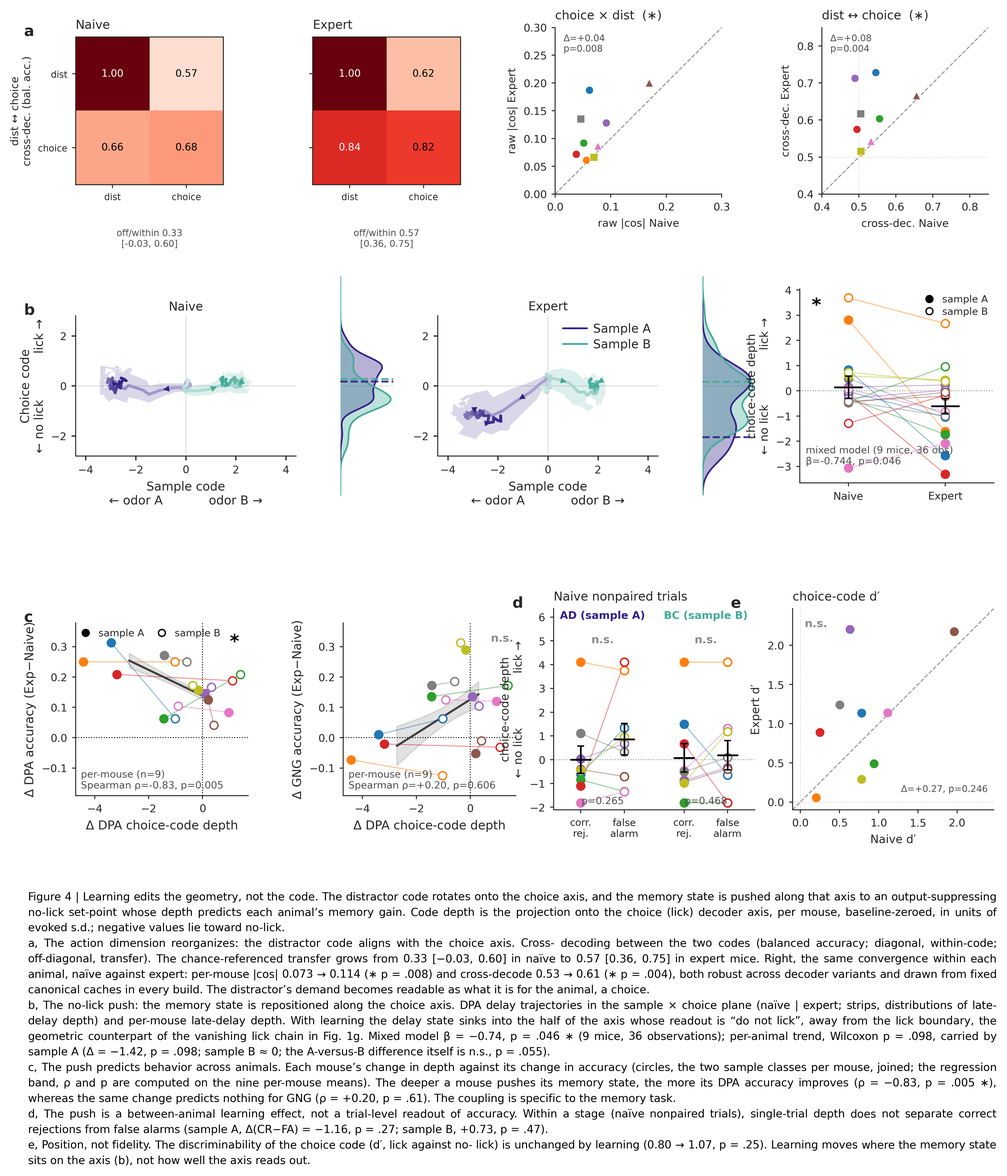
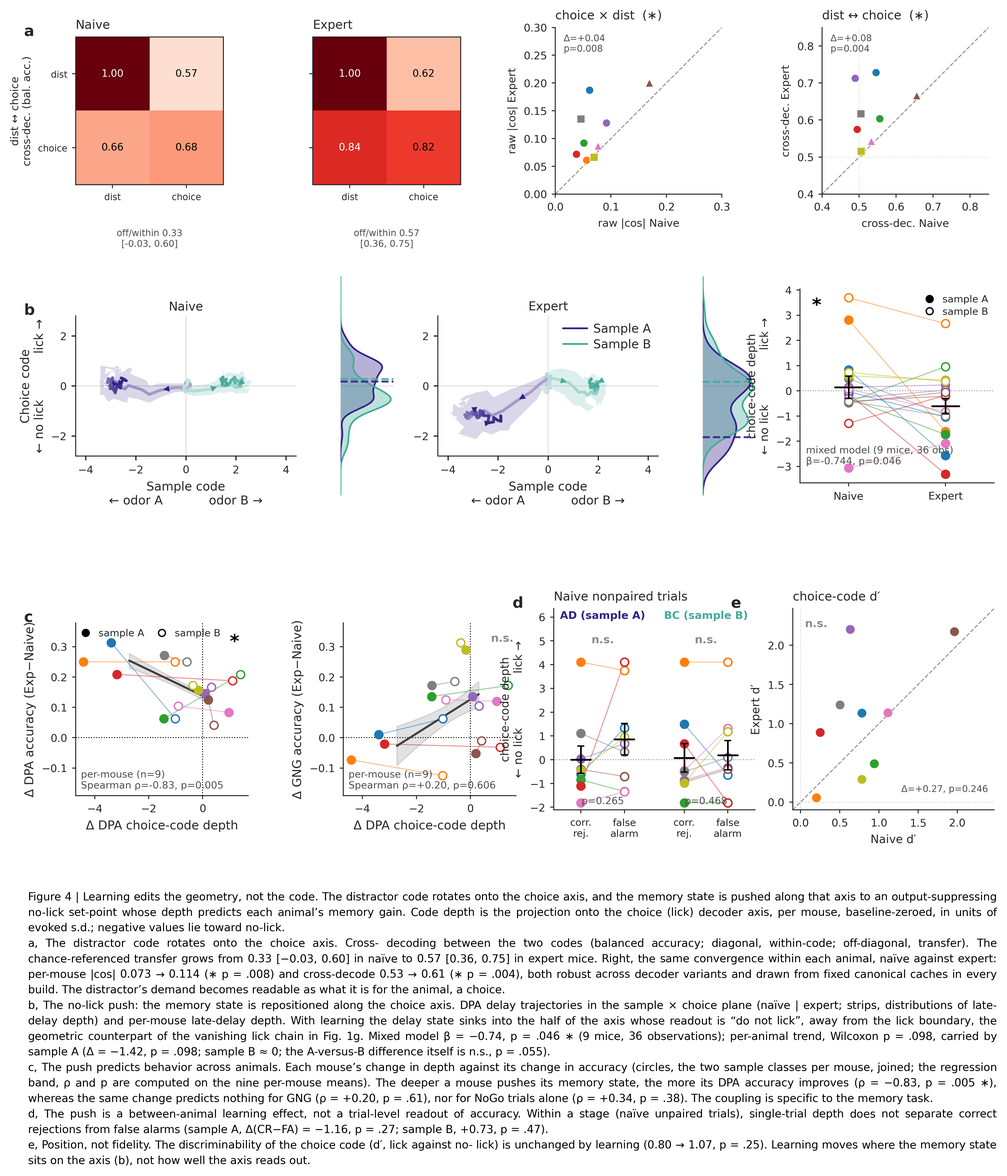
Draft v10.4: §4/§5 story rewrite (7 threads), NoGo-only coupling, choice-axis vocabulary
- §4 and §5 rewritten for the Nature Neuroscience register; statistics verbatim. New
  placeholder subsection for the circuit model (Fig. 5). Chronic silencing 'impaired
  learning of the dual task, deficit on its memory component'. dPCA-estimator caveat moved
  from §4 to Methods.
- NEW overlaps/exp_push_nogo_coupling.py: push ↔ NoGo-only / Go-only accuracy change with
  the Fig. 4c estimator — NoGo-only ρ = +0.34 p = .38, Go-only ρ = +0.20 p = .61 (DPA
  reproduces ρ = −0.83 p = .005). Reported in §4, the Fig. 4c legend and Methods; to-reconcile
  item closed.
- Vocabulary: the lick axis is the 'choice axis' throughout (text, Discussion, Fig 3e/4a/6g–i
  legends + CAP_PARAS; Figs 3, 4, 6 re-rendered); 'nonpaired' → 'unpaired'.

Claude-Session: https://claude.ai/code/session_01U5815xHXRaRQ7YCxMTgCsM

Changed region(s): [[0.0311, 0.7811, 0.9938, 0.8436], [0.1242, 0.9061, 0.9317, 0.9685]]

diff --git a/overlaps/fig_overlaps_main_native.py b/overlaps/fig_overlaps_main_native.py
@@ -344,7 +344,7 @@ if __name__ == '__main__':
         'set-point whose depth predicts each animal’s memory gain. Code depth is the projection onto '
         'the choice (lick) decoder axis, per mouse, baseline-zeroed, in units of evoked s.d.; '
         'negative values lie toward no-lick.',
-        'a, The action dimension reorganizes: the distractor code aligns with the choice axis. Cross- '
+        'a, The distractor code rotates onto the choice axis. Cross- '
         'decoding between the two codes (balanced accuracy; diagonal, within-code; off-diagonal, '
         'transfer). The chance-referenced transfer grows from 0.33 [−0.03, 0.60] in naïve to 0.57 '
         '[0.36, 0.75] in expert mice. Right, the same convergence within each animal, naïve against '
@@ -362,9 +362,9 @@ if __name__ == '__main__':
         'change in accuracy (circles, the two sample classes per mouse, joined; the regression band, '
         'ρ and p are computed on the nine per-mouse means). The deeper a mouse pushes its memory '
         'state, the more its DPA accuracy improves (ρ = −0.83, p = .005 ∗), whereas the same change '
-        'predicts nothing for GNG (ρ = +0.20, p = .61). The coupling is specific to the memory task.',
+        'predicts nothing for GNG (ρ = +0.20, p = .61), nor for NoGo trials alone (ρ = +0.34, p = .38). The coupling is specific to the memory task.',
         'd, The push is a between-animal learning effect, not a trial-level readout of accuracy. '
-        'Within a stage (naïve nonpaired trials), single-trial depth does not separate correct '
+        'Within a stage (naïve unpaired trials), single-trial depth does not separate correct '
         'rejections from false alarms (sample A, Δ(CR−FA) = −1.16, p = .27; sample B, +0.73, p = '
         '.47).',
         'e, Position, not fidelity. The discriminability of the choice code (d′, lick against no- '

diff --git a/overlaps/exp_push_nogo_coupling.py b/overlaps/exp_push_nogo_coupling.py
@@ -1,0 +1,22 @@
+"""exp_push_nogo_coupling.py — does the no-lick push (per-mouse Δdepth, Expert−Naive, Fig 4b/c) relate
+to the change in NoGo-trial accuracy specifically? (Leon, 2026-09-04: NoGo trials are the only GNG arm
+that improves with learning, Fig 1c.) Same estimator as Fig 4c — main_panels._panelC_coupling, the
+between-mouse n=9 Spearman on per-mouse means (A/B aggregated within mouse) — with the GNG performance
+column (odr_perf) restricted to Go-only or NoGo-only trials. Run from overlaps/ (canonical axis/norm)."""
+import sys, os
+sys.path.insert(0, '/home/leon/dual/'); os.chdir('/home/leon/dual/overlaps'); sys.path.insert(0, '/home/leon/dual/overlaps')
+import numpy as np
+from scipy.stats import pearsonr
+import main_panels as MP
+y = MP.y
+tasks = sorted(y.tasks.unique()); print('tasks:', tasks)
+go = [t for t in tasks if 'go' in t.lower() and 'nogo' not in t.lower()][0]
+nogo = [t for t in tasks if 'nogo' in t.lower()][0]
+rows = [('DPA', 'performance', y.tasks == 'DPA'), ('GNG (Go+NoGo)', 'odr_perf', y.tasks != 'DPA'),
+        ('Go only', 'odr_perf', y.tasks == go), ('NoGo only', 'odr_perf', y.tasks == nogo)]
+for name, col, mask in rows:
+    d = MP._perf_delta_by_sample(col, mask)
+    rho, p, n, mx, my = MP._panelC_coupling(d)
+    r, pr = pearsonr(mx, my)
+    print(f'{name:14s} n={n}  Spearman rho={rho:+.2f} p={p:.3f}   Pearson r={r:+.2f} p={pr:.3f}   '
+          f'mean Δacc={my.mean():+.3f}  per-mouse Δacc={np.round(my,2).tolist()}')

diff --git a/overlaps/fig_behavior_opto_main.py b/overlaps/fig_behavior_opto_main.py
@@ -870,7 +870,7 @@ if not POSTER:
         'DPA (d) and GNG (e) accuracy are unchanged between ON and OFF, yet the same manipulation '
         'displaces each animal’s position along the choice axis (f; per-mouse depth, samples pooled). '
         'The directions differ across mice, so the group mean is flat.',
-        'g–i, The displacement, read on the learned action axis, predicts behavior. Δdepth (ON−OFF) '
+        'g–i, The displacement, read on the learned choice axis, predicts behavior. Δdepth (ON−OFF) '
         'against the accompanying change in accuracy (20 points = 5 mice × naïve/expert × sample A/B; '
         'depth on the trainLD_TEST axis at late delay). The joint trade-off (g) is a raw-level trend '
         '(r = +0.53, p = .016); because the points cluster within five mice, a mouse-clustered model '

diff --git a/pca/fig_manifold_main.py b/pca/fig_manifold_main.py
@@ -666,7 +666,7 @@ CAP_PARAS = [
     'Learning pulls the distractor code into the plane, which Fig. 4a quantifies.',
     'e, The axes are nearly orthogonal. |cos| between the decoder axes, corrected for attenuation '
     'using the split-half reliabilities printed above each matrix (0 = orthogonal). The memory '
-    'axis is orthogonal to both action codes (≈0.07–0.09 at both stages), the static layer of '
+    'axis is orthogonal to both the choice and the distractor code (≈0.07–0.09 at both stages), the static layer of '
     'protection, while the overlap between choice and distractor is partial and grows (0.32 → '
     '0.47). Right, the raw within-mouse |cos|, naïve against expert; the increase for choice × '
     'distractor is the starred per-animal test of Fig. 4a. No tests are drawn here.',

diff --git a/docs/paper/results_draft.md b/docs/paper/results_draft.md
@@ -1,4 +1,14 @@
-# Compositional learning by geometric editing — main paper (draft v10.3)
+# Compositional learning by geometric editing — main paper (draft v10.4)
+
+> **v10.4 (2026-09-04, later): §4 + §5 STORY REWRITE, model section, vocabulary** — 7 activated
+> threads. §4 and §5 rewritten in the NatNeuro register (stats verbatim); NEW placeholder subsection
+> "A circuit model of the gated no-lick repositioning" (Fig. 5 in preparation); "impaired the learning
+> of DPA" → "impaired learning of the dual task, and the deficit fell on its memory component"; the
+> dPCA-estimator caveat moved from §4 to Methods (disclosure kept); VOCABULARY: the lick axis is the
+> "choice axis" everywhere — "action axis/dimension/codes" retired in the intro, §4, §5, Discussion and
+> the Fig 3e / 4a / 6g–i legends (+ CAP_PARAS; Figs 3, 4, 6 re-rendered); dPCA's own "action axis" in
+> the ED 9 sentence is now labelled as that decomposition's axis; "nonpaired" → "unpaired". NoGo-only
+> coupling: see the §4 sentence + `overlaps/exp_push_nogo_coupling.py`.
 
 > **v10.3 (2026-09-04, later): §3 STORY REWRITE** — 4 activated threads. §3 rewritten paragraph by
 > paragraph in the NatNeuro register (questions → traces → sufficiency/necessity → stability), stats
@@ -212,7 +222,7 @@ the action are carried on nearly orthogonal axes of a low-dimensional subspace t
 present, with the same axes, when dual task training begins. Learning the composition leaves
 this scaffold in place and refines the alignment of its axes, without adding dimensions that
 we could detect. What learning does change is the position of the working-memory state, which
-moves along a pre-existing action axis into the half that suppresses licking. This shift
+moves along the pre-existing choice axis into the half that suppresses licking. This shift
 tracks the disappearance of the interfering delay licks, predicts memory
 performance animal by animal, and is itself moved by top-down input from the anterior
 cingulate cortex (ACC), a projection that is required while the composition is being learned.
@@ -346,9 +356,9 @@ position on that axis, on its no-lick side, and that position does not differ de
 what the animal will go on to do at the test. The trained delay carries a standing no-lick
 set-point, not a premature decision. A demixed-PCA view of the same geometry is given in
 Extended Data Fig. 9: the time courses along single axes sharpened with learning without
-reorganizing, the choice and action axes became more aligned (|cos| 0.147 → 0.222, p < 0.001)
-while the sample and test axes separated (0.098 → 0.033, p = 0.008), and the action axis
-ordered the three trial types by the response they required. Three qualifications, detailed in
+reorganizing, the choice and action axes of that decomposition became more aligned (|cos|
+0.147 → 0.222, p < 0.001) while the sample and test axes separated (0.098 → 0.033, p = 0.008),
+and its action axis ordered the three trial types by the response they required. Three qualifications, detailed in
 Methods and Extended Data Fig. 3, belong here. The one-dimensionality of the DPA delay state is
 partly a matter of definition, since only one binary variable is being held; variance-weighted
 estimates of dimensionality and the full 12-condition spectra are reported in Extended Data
@@ -421,85 +431,97 @@ prefrontal cortex [Bernardi 2020].
 ## Learning repositions the memory state along the choice axis
 
 With one fixed, shared subspace established, we asked what learning changes inside it. Two
-things changed, and they turned out to be two faces of one reorganization of the action
-dimension. First, the distractor code aligned with the choice axis (Fig. 4a). Cross-decoding
-between the two codes rose from a chance-referenced transfer of 0.33 [−0.03, 0.60] in naïve
-animals to 0.57 [0.36, 0.75] in expert animals, and within animals both the raw cosine between
-the axes (0.073 → 0.114, p = .008) and the cross-decode (0.53 → 0.61, p = .004) increased,
-robustly across decoder variants. The distractor's demand had become readable as what it is for
-the animal: a choice.
+things changed, and they turned out to be two faces of a single reorganization along the
+choice axis. The first concerned the distractor. In naïve mice the distractor code and the
+choice code were only partly aligned; with learning the distractor code rotated onto the choice
+axis (Fig. 4a). A decoder trained on one code read the other with a chance-referenced transfer
+of 0.33 [−0.03, 0.60] in naïve animals and 0.57 [0.36, 0.75] in expert animals, and within
+animals both the raw cosine between the two axes (0.073 → 0.114, p = .008) and the
+cross-decoding (0.53 → 0.61, p = .004) increased, robustly across decoder variants. The
+distractor's demand had become readable as what it is for the animal: a choice.
 
-Second, learning moved the working-memory state along that same axis. The expert DPA delay
-state sat further into the no-lick half of the choice axis than the naïve state (Fig. 4b; mixed
-model over 9 mice and 36 observations, β = −0.744, p = 0.046; per-animal Wilcoxon p = 0.098).
-This is a set-point shift away from the lick boundary, and it suppresses precisely the
-delay-lick to false-alarm chain that learning removes behaviorally (Fig. 1g). The shift
-was numerically larger for sample A than for sample B (ΔA ≈ −1.42, p = 0.098; ΔB ≈ −0.07,
-p = 0.91). The direct paired comparison across the same nine mice, however, was not significant
-in any of six axis × normalization builds (p = 0.055–0.203), and the difference is not a
-decoder artifact: the sample and choice axes are orthogonal (per-mouse |cos| = 0.04), and
-leakage between them would displace A and B in opposite directions, which only 3/9 mice showed.
-We therefore report the repositioning itself and make no claim about sample specificity.
+The second concerned the memory. Learning moved the working-memory state along that same axis,
+toward the no-lick side. In expert mice the delay state of DPA trials sat further into the
+no-lick half of the choice axis than in naïve mice (Fig. 4b; mixed model over 9 mice and 36
+observations, β = −0.744, p = 0.046; per-animal Wilcoxon p = 0.098). This is the set-point
+anticipated in Fig. 2: the delay state comes to rest away from the lick boundary, and the
+delay-lick to false-alarm chain that learning removes behaviorally (Fig. 1g) is precisely the
+chain such a position suppresses. The shift was numerically larger for sample A than for
+sample B (ΔA ≈ −1.42, p = 0.098; ΔB ≈ −0.07, p = 0.91), but the direct paired comparison across
+the same nine mice was not significant in any of six axis × normalization builds
+(p = 0.055–0.203). The difference is not a decoder artifact, since the sample and choice axes
+are orthogonal (per-mouse |cos| = 0.04) and leakage between them would displace A and B in
+opposite directions, which only 3/9 mice showed. We therefore report the repositioning itself
+and make no claim about sample specificity.
 
 The size of the repositioning predicted behavior across animals. The further a mouse had moved
 its delay state toward no-lick, the more its DPA accuracy had improved (Fig. 4c, left;
-per-mouse Spearman ρ = −0.83, p = 0.005, n = 9), with no relationship to GNG accuracy
-(Fig. 4c, right; ρ = +0.20, p = 0.61). The association is specific to memory performance and
-comes at no detectable cost to the distractor task. It held under every normalization we tried
-(ρ = −0.83 to −0.90, all p ≤ 0.005) and every resampling check (leave-one-out jackknife;
-bootstrap CI excluding 0; permutation p = 0.008). Two controls close the section. Within naïve
-nonpaired trials, the trial-by-trial depth of the state did not separate correct rejections
-from false alarms on this axis (Fig. 4d; sample-A Δ(CR−FA) = −1.16, p = 0.27; sample-B +0.73,
-p = 0.47), so the push is a between-animal learning effect and not a within-stage readout of
-trial accuracy. And the change was in the position of the state, not in the code itself: the
-discriminability of the choice code was statistically unchanged across learning (Fig. 4e;
-d′ 0.80 → 1.07, Δ = +0.27, p = 0.25). Two caveats apply. The push is directional rather than a
-precise magnitude; on a fixed common axis it weakens to a trend, because part of the per-stage
-change is a reorganization of the decoder axis itself. And the behavioral coupling is an
-individual-difference correlation over nine animals, robust within this analysis but null when
-depth is measured with the dPCA-derived estimator (r = +0.46, p = 0.21). A circuit model of
-this gated no-lick edit is in preparation (Fig. 5).
+per-mouse Spearman ρ = −0.83, p = 0.005, n = 9), whereas the same change bore no relationship
+to GNG accuracy (Fig. 4c, right; ρ = +0.20, p = 0.61), nor to the accuracy of NoGo trials taken alone, the arm
+of the distractor task that improves with learning (ρ = +0.34, p = 0.38; Go trials alone
+ρ = +0.20, p = 0.61). The coupling is specific to memory performance and comes at no detectable cost to the distractor task, and it held under
+every normalization we tried (ρ = −0.83 to −0.90, all p ≤ 0.005) and every resampling check
+(leave-one-out jackknife; bootstrap CI excluding 0; permutation p = 0.008).
+
+Two controls sharpen the interpretation. The push is a property of animals, not of trials:
+within naïve unpaired trials, the trial-by-trial depth of the state did not separate correct
+rejections from false alarms (Fig. 4d; sample-A Δ(CR−FA) = −1.16, p = 0.27; sample-B +0.73,
+p = 0.47), so the repositioning is a between-animal learning effect rather than a within-stage
+readout of accuracy. And what moved was the position of the state, not the code itself: the
+discriminability of the choice code was unchanged across learning (Fig. 4e; d′ 0.80 → 1.07,
+Δ = +0.27, p = 0.25). Two caveats apply. The push is directional rather than a precise
+magnitude, because part of the per-stage change is a reorganization of the decoder axis
+itself, and on a fixed common axis it weakens to a trend. And the behavioral coupling is an
+individual-difference correlation over nine animals, whose robustness and limits are set out in
+Methods.
+
+## A circuit model of the gated no-lick repositioning
+
+A circuit model of the gated no-lick repositioning is in preparation (Fig. 5). **[AUTHOR:
+modelling section to be written once Fig. 5 is built.]**
 
 ## ACC input shifts the state's position but not the code
 
-If the composition is implemented as an edit to this geometry, some input must supply the edit.
-We tested the projection from ACC to the prelimbic mPFC we recorded from (Fig. 6a;
-hSyn-GCaMP6s in mPFC, CaMKII-Jaws-tdTomato in ACC, 635-nm light on a pseudo-random 50% of delay
-periods). Silencing the projection on every trial throughout training, in a separate
-between-group cohort (9 opto vs 9 control mice), impaired the learning of DPA (Fig. 6b). A
-mixed model placed the deficit on DPA, and most strongly on its unpaired trials, while sparing
-GNG (Fig. 6c; DPA β = −0.06, p = 0.009; DPA-unpaired β = −0.12, p = 0.014; GNG n.s.). This is
-the same DPA-selective vulnerability we saw behaviorally in Fig. 1, and the same dependence on
-the learning phase that has been reported for mPFC delay activity itself [Liu 2014].
+If the composition is implemented as an edit to a fixed geometry, some input has to supply the
+edit. The anterior cingulate cortex (ACC), which projects to the prelimbic region we recorded
+from, is a natural candidate for such a top-down signal. We expressed GCaMP6s in mPFC and the
+inhibitory opsin Jaws in ACC, and silenced ACC terminals in mPFC with 635-nm light during the
+delay (Fig. 6a). Silencing the projection on every trial throughout training, in a separate
+between-group cohort (9 opto vs 9 control mice), impaired learning of the dual task, and the
+deficit fell on its memory component (Fig. 6b). A mixed model placed the impairment on DPA,
+most strongly on its unpaired trials, while sparing GNG (Fig. 6c; DPA β = −0.06, p = 0.009;
+DPA-unpaired β = −0.12, p = 0.014; GNG n.s.). This is the same DPA-selective vulnerability we
+saw behaviorally in Fig. 1, and the same dependence on the learning phase reported for mPFC
+delay activity itself [Liu 2014].
 
-In the imaged cohort we silenced the projection transiently, on half of the delay periods
-(laser ON vs OFF within each mouse; Jaws, n = 5), and projected both trial types through the
-choice axis that had been trained on laser-OFF trials, so as to read the position of the state
-on the learned geometry. Transient silencing produced no gross change in behavior (Fig. 6d,e;
-DPA p = 0.40, GNG p = 0.24), but it moved the delay choice code in each mouse (Fig. 6f). Across
-animals, the robust behavioral coupling of this displacement was on the distractor side.
-Δdepth predicted ΔGNG accuracy (Fig. 6i; r = −0.65, p = 0.002; ρ = −0.62, p = 0.003), and this
-was the one arm that survived a mouse-clustered model (β = −0.013, p = 0.018). The joint
-DPA−GNG trade-off was a raw-level trend only (Fig. 6g; r = +0.53, p = 0.016 over n = 20 points
-that cluster within five mice; clustered p = 0.108), and the DPA arm was not significant
-(Fig. 6h). In laser-ON trials the mice still occupied the same suboptimal balance between DPA
-and GNG as at baseline (Fig. 6j; r = +0.44, p = 0.20).
+In the imaged cohort we silenced the projection transiently instead, on a pseudo-random half
+of the delay periods, so that every comparison is laser ON against OFF within the same mouse
+(Jaws, n = 5). To read where the delay state sat on the learned geometry, we projected ON and
+OFF trials alike onto the choice axis trained on laser-OFF trials. Transient silencing
+produced no gross change in behavior (Fig. 6d,e; DPA p = 0.40, GNG p = 0.24), yet it displaced
+the delay choice code in each mouse (Fig. 6f), in a direction that differed between animals.
+Across animals, the displacement predicted the change in GNG accuracy (Fig. 6i; r = −0.65,
+p = 0.002; ρ = −0.62, p = 0.003), the one relationship that survived a model clustered by
+mouse (β = −0.013, p = 0.018). The joint DPA−GNG trade-off was a trend at the level of raw
+points (Fig. 6g; r = +0.53, p = 0.016 over n = 20 points that cluster within five mice;
+clustered p = 0.108), and the DPA arm was not significant (Fig. 6h). Under laser the mice kept
+the same balance between DPA and GNG as at baseline (Fig. 6j; r = +0.44, p = 0.20).
 
 Critically, the input moved the state without altering what the subspace encoded. The
-discriminability of the sample-memory axis (Fig. 6k; A vs B, late delay) and of the GNG choice
-axis (Fig. 6l; Go vs NoGo, mid-delay) was spared under laser (LMM over 20 mouse × stage ×
-laser observations from the five mice; sample p = 0.34, GNG p = 0.74). Acute ACC→mPFC input
-therefore shifts where the delay state sits along the shared action axis, the same variable that
-learning acts on, while leaving the content of the code intact, and the chronic experiment shows
-that the projection is required for the composition to be learned in the first place
-(Fig. 6b,c). The two couplings mirror each other in an informative way. Learning's
-repositioning is coupled to the DPA arm with no cost to GNG (Fig. 4c); the acute displacement is
-coupled to the GNG arm. The fixed subspace permits a factorized, memory-specific improvement
-that a momentary perturbation does not reproduce. Because this figure combines a chronic
+discriminability of the memory axis (Fig. 6k; sample A vs B, late delay) and of the GNG choice
+axis (Fig. 6l; Go vs NoGo, mid-delay) was spared under laser (LMM over 20 mouse × stage × laser
+observations from the five mice; sample p = 0.34, GNG p = 0.74). Acute ACC→mPFC input therefore
+shifts where the delay state sits along the shared choice axis, the same variable that learning
+acts on, while leaving the content of the code intact; and the chronic experiment shows that
+the projection is required for the composition to be learned in the first place (Fig. 6b,c).
+The two couplings mirror each other in an informative way. Learning's repositioning is coupled
+to memory performance at no cost to GNG (Fig. 4c); the acute displacement is coupled to GNG. A
+momentary push on the same axis does not reproduce the factorized, memory-specific improvement
+that learning achieves within the fixed subspace. Because this figure combines a chronic
 between-group cohort with a within-mouse transient cohort, and because its 20 trial-type points
-cluster within five animals, we treat Fig. 6i as the robust arm and Fig. 6g as a raw-level trend
-(Methods). An alternative build of the coupling over all seven laser mice gives GNG ρ = −0.90,
-p = 0.006, with the DPA arm null (Extended Data Fig. 8).
+cluster within five animals, we treat Fig. 6i as the robust arm and Fig. 6g as a raw-level
+trend (Methods). An alternative build of the coupling over all seven laser mice gives GNG
+ρ = −0.90, p = 0.006, with the DPA arm null (Extended Data Fig. 8).
 
 ---
 
@@ -736,7 +758,10 @@ sample observations from 9 mice — with a per-animal Wilcoxon companion on the 
 Expert − Naive differences. The depth↔accuracy coupling (Fig. 4c) is a between-mouse Spearman
 correlation over the nine per-mouse means of Δdepth and Δaccuracy (Expert − Naive) — the fitted
 unit is the animal — with robustness established across all six axis × normalization builds and
-a resampling battery (jackknife, bootstrap, permutation; ED 5). The FA/CR control (Fig. 4d) is
+a resampling battery (jackknife, bootstrap, permutation; ED 5); the GNG arm was also split into
+Go-only and NoGo-only accuracy changes (`exp_push_nogo_coupling.py`; both null). One limit is disclosed: the
+coupling does not replicate when depth is instead measured on the dPCA-derived tasks axis
+(r = +0.46, p = 0.21). The FA/CR control (Fig. 4d) is
 a paired t-test on per-mouse median depths of correct-rejection vs false-alarm trials (naïve
 nonpaired trials, ≥3 trials per cell). The d′ control (Fig. 4e) computes the choice code's
 pooled-variance d′ at the axis window (bins 57–62) per mouse × stage and compares stages by
@@ -899,7 +924,8 @@ distractor code into the plane, which Fig. 4a quantifies.
 
 e, The axes are nearly orthogonal. |cos| between the decoder axes, corrected for attenuation using
 the split-half reliabilities printed above each matrix (0 = orthogonal). The memory axis is
-orthogonal to both action codes (≈0.07–0.09 at both stages), the static layer of protection, while
+orthogonal to both the choice and the distractor code (≈0.07–0.09 at both stages), the static
+layer of protection, while
 the overlap between choice and distractor is partial and grows (0.32 → 0.47). Right, the raw within-
 mouse |cos|, naïve against expert; the increase for choice × distractor is the starred per-animal
 test of Fig. 4a. No tests are drawn here.
@@ -917,7 +943,7 @@ whose depth predicts each animal’s memory gain. Code depth is the projection o
 decoder axis, per mouse, baseline-zeroed, in units of evoked s.d.; negative values lie toward no-
 lick.
 
-a, The action dimension reorganizes: the distractor code aligns with the choice axis. Cross-
+a, The distractor code rotates onto the choice axis. Cross-
 decoding between the two codes (balanced accuracy; diagonal, within-code; off-diagonal, transfer).
 The chance-referenced transfer grows from 0.33 [−0.03, 0.60] in naïve to 0.57 [0.36, 0.75] in expert
 mice. Right, the same convergence within each animal, naïve against expert: per-mouse |cos| 0.073 →
@@ -937,10 +963,11 @@ c, The push predicts behavior across animals. Each mouse’s change in depth aga
 accuracy (circles, the two sample classes per mouse, joined; the regression band, ρ and p are
 computed on the nine per-mouse means). The deeper a mouse pushes its memory state, the more its DPA
 accuracy improves (ρ = −0.83, p = .005 ∗), whereas the same change predicts nothing for GNG (ρ =
-+0.20, p = .61). The coupling is specific to the memory task.
++0.20, p = .61), nor for NoGo trials alone (ρ = +0.34, p = .38). The coupling is specific to the
+memory task.
 
 d, The push is a between-animal learning effect, not a trial-level readout of accuracy. Within a
-stage (naïve nonpaired trials), single-trial depth does not separate correct rejections from false
+stage (naïve unpaired trials), single-trial depth does not separate correct rejections from false
 alarms (sample A, Δ(CR−FA) = −1.16, p = .27; sample B, +0.73, p = .47).
 
 e, Position, not fidelity. The discriminability of the choice code (d′, lick against no- lick) is
@@ -966,7 +993,7 @@ and GNG (e) accuracy are unchanged between ON and OFF, yet the same manipulation
 animal’s position along the choice axis (f; per-mouse depth, samples pooled). The directions differ
 across mice, so the group mean is flat.
 
-g–i, The displacement, read on the learned action axis, predicts behavior. Δdepth (ON−OFF) against
+g–i, The displacement, read on the learned choice axis, predicts behavior. Δdepth (ON−OFF) against
 the accompanying change in accuracy (20 points = 5 mice × naïve/expert × sample A/B; depth on the
 trainLD_TEST axis at late delay). The joint trade-off (g) is a raw-level trend (r = +0.53, p =
 .016); because the points cluster within five mice, a mouse-clustered model gives p = .108. Its arms
@@ -1176,10 +1203,13 @@ expression, imaging FOV + per-mouse cell counts, laser-power / opsin titration.
 ---
 
 ### To reconcile before submission (figure ↔ text integrity)
-- **OPEN (comment 2026-09-02): push ↔ NoGo-trial accuracy.** Fig. 4c right pools Go and NoGo
+- **push ↔ NoGo-trial accuracy (comment 2026-09-02) — CLOSED, see below.** Fig. 4c right pools Go and NoGo
   trials (GNG accuracy). Compute per-mouse Δdepth ↔ ΔNoGo accuracy and ΔGo accuracy separately
   (the push is a withholding set-point, so a NoGo-specific coupling is the natural prediction);
   report either way. Analysis pending.
+  **CLOSED 2026-09-04:** `overlaps/exp_push_nogo_coupling.py` — same n = 9 per-mouse Spearman as
+  Fig. 4c; NoGo-only ρ = +0.34, p = 0.38 (Pearson r = +0.32, p = 0.41); Go-only ρ = +0.20, p = 0.61;
+  DPA reproduces ρ = −0.83, p = 0.005. Sentence added to §4, the Fig. 4c legend and Methods.
 - **OPEN (comment 2026-09-04): ED Fig. 10, licking behavior** — to build (entry drafted above).
 - **Panel-label spelling**: the American-English sweep covered the text and legends; axis labels
   and in-panel strings inside the figure scripts still need the same pass.

diff --git a/docs/paper/discussion_draft.md b/docs/paper/discussion_draft.md
@@ -39,8 +39,8 @@ makes the factorization legible at the level of single cells.
 In auditory cortex, memories are protected from incoming sensory drive by rotational dynamics
 that move the memory into a dimension orthogonal to the sensory response [Libby 2021]. mPFC in
 our task uses a different, two-layered scheme. The memory axis is statically orthogonal to both
-action codes throughout the trial (Fig. 3e), and learning adds a second layer: a positional
-offset along the action axis itself, which holds the delay state at an increasingly
+the choice and the distractor code throughout the trial (Fig. 3e), and learning adds a second
+layer: a positional offset along the choice axis itself, which holds the delay state at an increasingly
 output-suppressing set-point on the no-lick side (Fig. 4b). The set-point is close to, but
 distinct from, the output-null principle of motor cortex [Kaufman 2014]. Preparatory activity
 there is held where it cannot drive output; the memory here is held where it actively opposes
